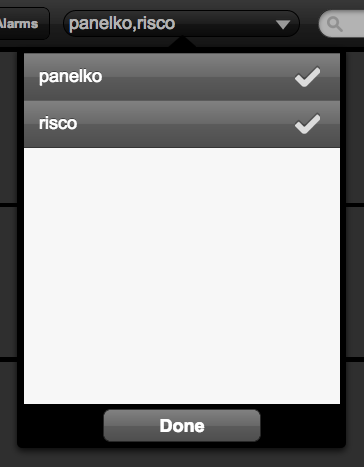
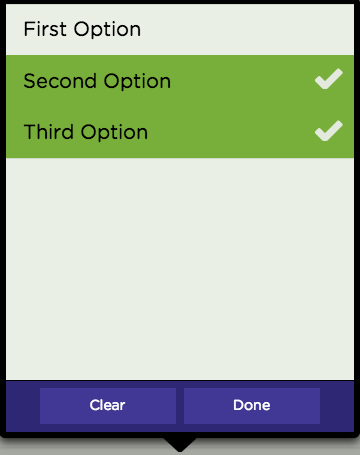
Add 'clear' button
Tapping on the clear button deselects and clears the current field
content and hides the picker.

diff --git a/ux/Multiselect.js b/ux/Multiselect.js
@@ -7,7 +7,9 @@ Ext.define('Ux.field.Multiselect', {
 
         mode: 'MULTI',
 
-        doneButton: true
+        doneButton: true,
+
+        cancelButton: true,
     },
     /**
      * Updates the {@link #doneButton} configuration. Will change it into a button when appropriate, or just update the text if needed.
@@ -30,11 +32,9 @@ Ext.define('Ux.field.Multiselect', {
                 text: 'Done',
                 ui: 'action',
                 height: '20px',
-                margin: '5px auto 0px auto',
-                width: '50%',
-                docked: 'bottom',
+                width: '40%',
                 listeners: {
-                    tap: this.onButtonTap,
+                    tap: this.onDoneButtonTap,
                     scope: this
                 }
             });
@@ -42,6 +42,33 @@ Ext.define('Ux.field.Multiselect', {
 
         return Ext.factory(config, 'Ext.Button', this.getDoneButton());
     },
+
+    applyCancelButton: function(config) {
+        if (config) {
+            if (Ext.isBoolean(config)) {
+                config = {};
+            }
+
+            if (typeof config == "string") {
+                config = {
+                    text: config
+                };
+            }
+
+            Ext.applyIf(config, {
+                text: 'Clear',
+                ui: 'action',
+                height: '20px',
+                width: '40%',
+                listeners: {
+                    tap: this.onCancelButtonTap,
+                    scope: this
+                }
+            });
+        }
+
+        return Ext.factory(config, 'Ext.Button', this.getCancelButton());
+    },    
 
     /**
      * @private
@@ -66,13 +93,23 @@ Ext.define('Ux.field.Multiselect', {
                     mode: listMode,
                     store: me.getStore(),
                     itemTpl: '<span class="x-list-label">{' + me.getDisplayField() + ':htmlEncode}</span>'
+                },{
+                    xtype: 'toolbar',
+                    docked: 'bottom',
+                    layout: {
+                        pack: 'center',
+                        type: 'hbox'
+                    }
                 }]
             }, config));
 
             if(listMode === 'SINGLE'){
                 me.listPanel.down('list').on('itemtap',me.onListTap,me);
             }else{
-                me.listPanel.add(this.getDoneButton());    
+                me.listPanel.down('toolbar').add(this.getCancelButton());   
+                console.log('toolbar');
+                test = me.listPanel.down('toolbar');
+                me.listPanel.down('toolbar').add(this.getDoneButton());    
             }
         }
         return me.listPanel;
@@ -87,11 +124,19 @@ Ext.define('Ux.field.Multiselect', {
     /**
      * @private
      */
-    onButtonTap: function(){
+    onDoneButtonTap: function(){
         var records = this.listPanel.down('list').getSelection();
         this.setValue(records);
         this.superclass.onListTap.call(this);
     },
+    /**
+     * @private
+     */
+    onCancelButtonTap: function(){
+        this.listPanel.down('list').deselectAll();
+        this.setValue(null);
+        this.superclass.onListTap.call(this);
+    },    
     /**
      * @private
      */
@@ -119,7 +164,6 @@ Ext.define('Ux.field.Multiselect', {
             out = [],
             len,
             item;
-            
         if (value) {
             if (delimiter && Ext.isString(value)) {
                 value = value.split(delimiter);
@@ -146,7 +190,6 @@ Ext.define('Ux.field.Multiselect', {
             out = [],
             len,
             item;
-            
         if (value) {
             if (delimiter && Ext.isString(value)) {
                 value = value.split(delimiter);
